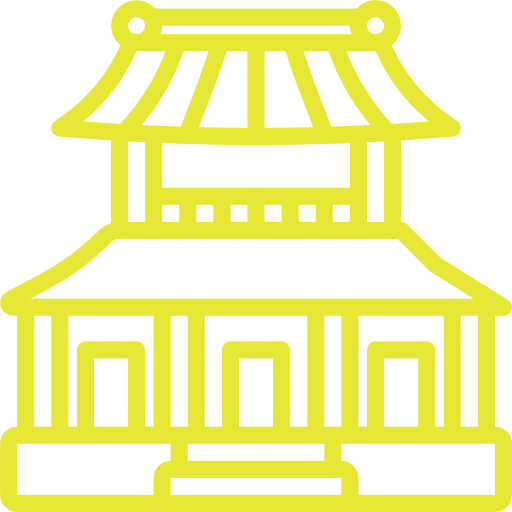
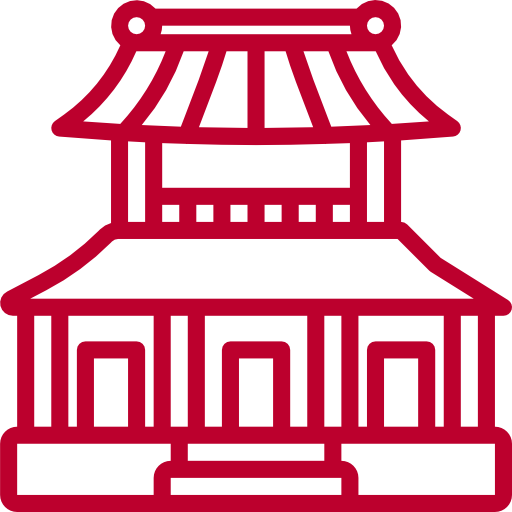
Minor Changes

diff --git a/sobre.html b/sobre.html
@@ -52,7 +52,7 @@
     </header>
     <main>
         <section class="SobreTitulo">
-            <img src="Imagem/sobretitulo.jpg" style="width: 100%; height: 500px; object-fit: cover; object-position: 20% 0;">
+            <img src="Imagem/sobretitulo.jpg" style="width: 100%; height: 300px; object-fit: cover; object-position: 20% 0;">
             <div class="SobreTitulo_texto">
                 <h1>SOBRE NÓS</h1>
             </div>
@@ -61,7 +61,7 @@
         <section class="foto_equipe">
             <section class="sobrenos_info"> 
                 <div class="sobrenos_info_texto"> 
-                    <h1> Do Japão, direto para os dojos do Brasil!</h1>
+                    <h1> DO JAPÃO, DIRETO PARA OS DOJOS DO BRASIL!</h1>
                     <br>
                     <p>Lorem ipsum dolor sit amet, consectetur adipiscing elit, sed do eiusmod tempor incididunt ut labore et dolore magna aliqua. Ut enim ad minim veniam, quis nostrud exercitation ullamco laboris nisi ut aliquip ex ea commodo consequat. Duis aute irure dolor in reprehenderit in voluptate velit esse cillum dolore eu fugiat nulla pariatur. Excepteur sint occaecat cupidatat non proident, sunt in culpa qui officia deserunt mollit anim id est laborum.</p>
                 </div>
@@ -79,7 +79,7 @@
           
         </section>
         <section class="SobreTitulo2">
-            <img src="Imagem/sobretitulo.jpg" style="width: 100%; height: 500px; object-fit: cover; object-position: 20% 0;">
+            <img src="Imagem/sobretituloSensei.png" style="width: 100%; height: 300px; object-fit: cover; object-position: 53% 0; filter: brightness(0.4);">
             <div class="SobreTitulo_texto2">
                 <h1>SEUS SENSEIS</h1>
             </div>
@@ -191,9 +191,9 @@
                 <h2>REDES SOCIAIS</h2>
                 <p>Nos siga em nossas redes sociais</p>
                 <div>
-                    <a class="informacoes_links_links" href="https://www.instagram.com/sturgeon_kendo/"><img src="Imagem/instagram.png"></a>
-                    <a class="informacoes_links_links" href="https://twitter.com/kendoniagara"><img src="Imagem/twitter-novo.png"></a>
-                    <a class="informacoes_links_links" href="https://www.youtube.com/@TheKendoShow/videos"><img src='Imagem/twitch.png'></a>
+                    <a class="informacoes_links_inst" href="https://www.instagram.com/sturgeon_kendo/"><img src="Imagem/instagram.png"></a>
+                    <a class="informacoes_links_x" href="https://twitter.com/kendoniagara"><img src="Imagem/twitter-novo.png"></a>
+                    <a class="informacoes_links_ytb" href="https://www.youtube.com/@TheKendoShow/videos"><img src='Imagem/twitch.png'></a>
                 </div>
             </div>
         </section>

diff --git a/css/style.css b/css/style.css
@@ -52,11 +52,28 @@ body
     font-size: 20px;
 }
 
+.informacoes a:hover
+{
+    color: #bc002d;
+}
+
 .informacoes_links_social
 {
     display: flex;
     flex-direction: column;
     padding: 5% 0%;
+}
+.informacoes_links_inst:hover
+{
+    filter: invert(1) brightness(5);
+}
+.informacoes_links_x:hover
+{
+    filter: invert(1) brightness(5);
+}
+.informacoes_links_ytb:hover
+{
+    filter: invert(1) brightness(5);
 }
 .informacoes_logo
 {
@@ -147,6 +164,7 @@ body
     display: flex;
     flex-direction: column;
     text-align: center;
+    background-color: rgb(34, 32, 58);
     gap: 20px;
     font-size: 20px;
     font-family: 'Segoe UI', sans-serif;
@@ -286,6 +304,7 @@ body
 {
     display: inline-block;
     position: relative;
+    background-color: rgb(34, 32, 58);
     width: 100%;
     padding: 0px 0px 30px 0px;
   
@@ -293,6 +312,7 @@ body
 .SobreTitulo2
 {
     padding: 30px 0px 0px 0px;
+    background-color: rgb(34, 32, 58);
 }
 .SobreTitulo_texto
 {
@@ -388,7 +408,7 @@ body
 {
     font-family: 'Segoe UI', sans-serif, bold;
     font-size: 40px;
-    color: rgb(230, 230, 52);
+    color: #BC002D;
 }
 
 /* Botão Whatsapp */
@@ -649,6 +669,19 @@ h1{
     {
         top: 200px;
     }
+    .sobrenos_info_dojoalunoinf
+    {
+        flex-wrap: wrap;
+        gap: 100px;
+    }
+    .sobrenos_info_texto
+    {
+        width: 400px;
+    }
+    .senseis
+    {
+        flex-wrap: wrap;
+    }
 }
 
 fieldset {
@@ -739,3 +772,4 @@ input, select, textarea, button {
     display: flex;
     background-color: white;
 }
+
